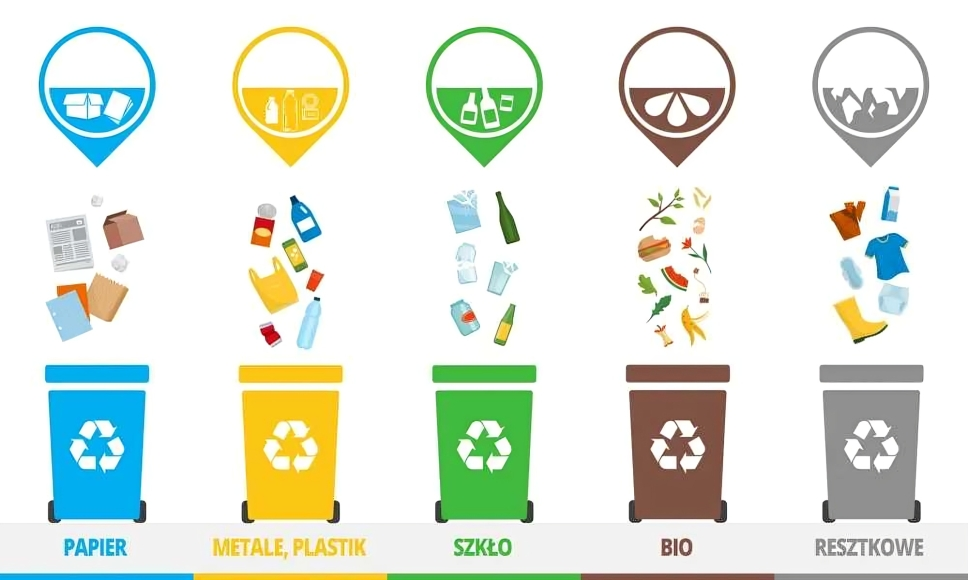
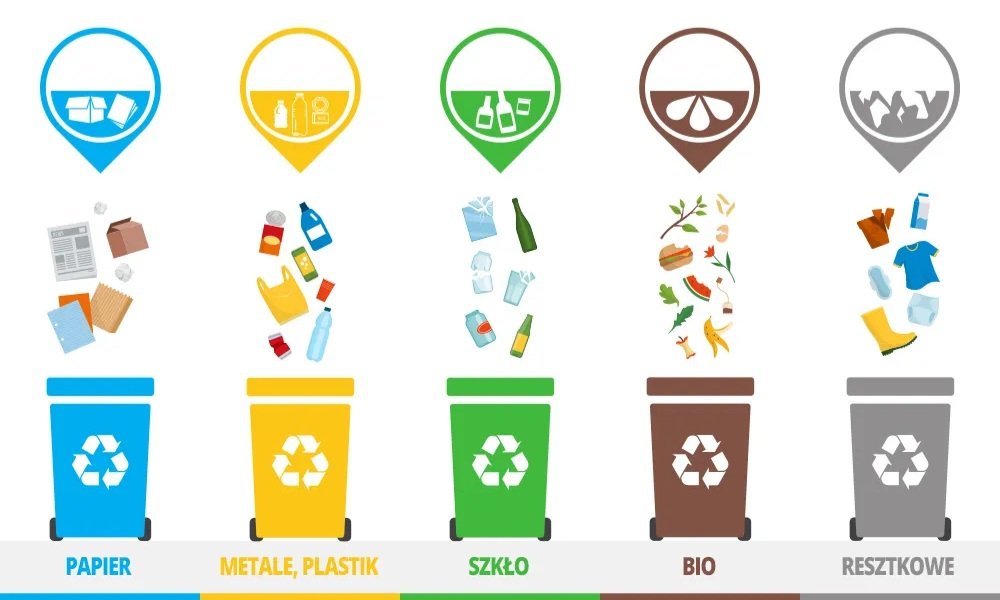
Poprawki Zdj

diff --git a/index.html b/index.html
@@ -15,7 +15,7 @@
             produkcji nowych produktów. Polega na segregowaniu, zbieraniu, przetwarzaniu i
             ponownym wykorzystaniu odpadów, zamiast ich po prostu wyrzucać na składowisko śmieci.</p>
         
-        <img src="rec_index.jpg" >
+        <img src="rec_index.png">
             
     </div>
 
